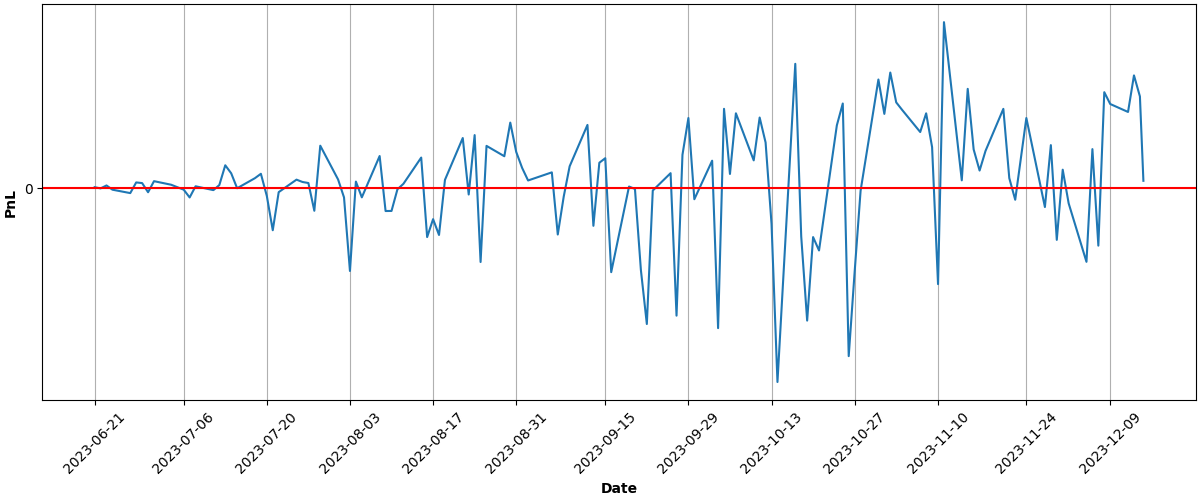
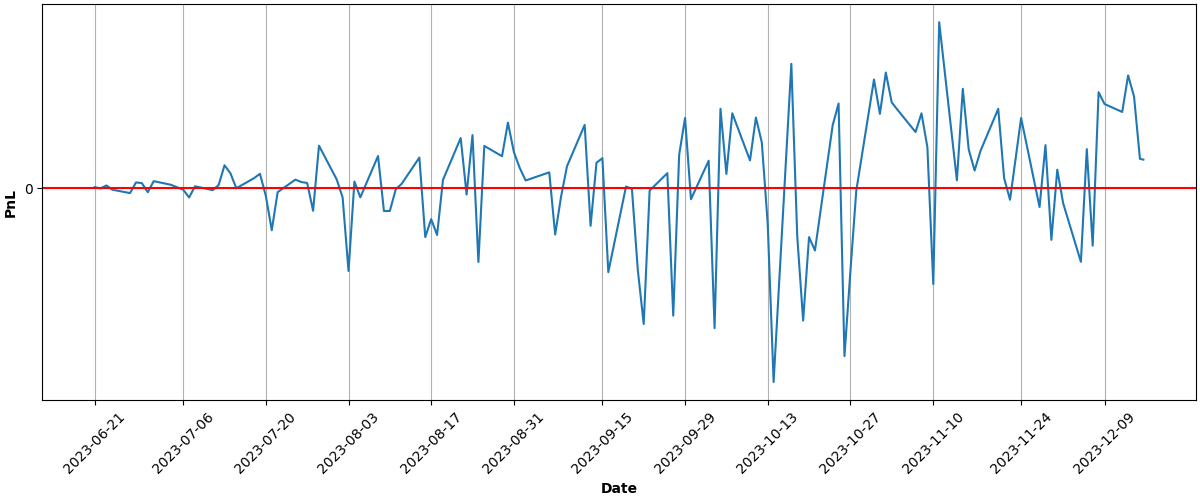
Automated Buy At Fri Dec 15 15:04:39 UTC 2023 Run ID 7223691187

diff --git a/README.md b/README.md
@@ -68,9 +68,9 @@ Results
 
 | Asset | Average Price | Current Price | ROI | 📈 |
 | --- | --- | --- | --- | --- |
-| FNGU | $175.857641895 | $220.5 | 25.39% | &#128994;&#128515; |
-| SVIX | $29.199334615 | $37.65 | 28.94% | &#128994;&#128515; |
-| **Total** |  |  | **27.31%** | &#128994;&#128518; |
+| FNGU | $176.158773461 | $225.6299 | 28.08% | &#128994;&#128515; |
+| SVIX | $29.199334615 | $37.75 | 29.28% | &#128994;&#128515; |
+| **Total** |  |  | **28.73%** | &#128994;&#128518; |
 
 ### PnL over time (calculations may not be accurate):
 
@@ -81,6 +81,6 @@ Results
 ---
 
 
-Updated at 2023-12-14 15:04:54
+Updated at 2023-12-15 15:04:55
 
 
